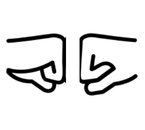
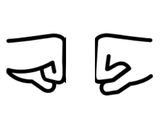
Social: 10-frame fistbump animation, 3 cycles smooth
- Replace 3-frame (300ms) overlay animation with 10-frame (110ms) cycling
  fistbump1→10 × 3 for a smooth continuous loop; clash on final frame only
- Update all static fistbump icon references to fistbump10.png (final frame)
- Add fistbump4-10.png to public assets

Changed region(s): [[0.5241, 0.2462, 0.9655, 0.7385], [0.0276, 0.2462, 0.469, 0.7385], [0.0276, 0.2769, 0.0552, 0.3385]]

diff --git a/gym-tracker/src/components/social/SocialPageClient.tsx b/gym-tracker/src/components/social/SocialPageClient.tsx
@@ -147,14 +147,14 @@ function FeedCard({
               }`}
               title={entry.myFistBump ? "Remove fist bump" : "Fist bump!"}
             >
-              <img src="/fistbump3.png" alt="" className="h-4 w-4 object-contain fb-icon" />
+              <img src="/fistbump10.png" alt="" className="h-4 w-4 object-contain fb-icon" />
               {bumpCount > 0 && <span>{bumpCount}</span>}
             </button>
           )}
           {/* Own entry: show bumper names */}
           {entry.isOwnWorkout && bumpCount > 0 && (
             <span className="flex items-center gap-1 text-xs text-zinc-500 dark:text-zinc-400 max-w-[160px]">
-              <img src="/fistbump3.png" alt="" className="h-3.5 w-3.5 object-contain flex-shrink-0 fb-icon" />
+              <img src="/fistbump10.png" alt="" className="h-3.5 w-3.5 object-contain flex-shrink-0 fb-icon" />
               <span className="truncate">
                 {(() => {
                   const names = entry.fistBumps.map((b) => b.username ?? b.name ?? "Someone");
@@ -395,7 +395,7 @@ export function SocialPageClient({ friendsWithStats, feed, pendingReceived, pend
   const [overlayBumpers, setOverlayBumpers] = useState<string[]>([]);
   const [overlayCount, setOverlayCount] = useState(0);
   const [showConfetti, setShowConfetti] = useState(false);
-  const [animFrame, setAnimFrame] = useState<1|2|3>(1);
+  const [animFrame, setAnimFrame] = useState<number>(1);
   const [showClash, setShowClash] = useState(false);
   const [newBumpSessionIds, setNewBumpSessionIds] = useState(() => new Set(newFistBumps.map((b) => b.sessionId)));
   const [newFeedIds, setNewFeedIds] = useState(() => new Set(newFeedSessionIds));
@@ -428,10 +428,11 @@ export function SocialPageClient({ friendsWithStats, feed, pendingReceived, pend
     }
   }, [view, tab]); // eslint-disable-line react-hooks/exhaustive-deps
 
-  // 3-frame fistbump animation — clash + confetti only on the final (3rd) frame 3
+  // 10-frame fistbump animation × 3 cycles — clash + confetti only on the final frame
   useEffect(() => {
     if (!showFistBumpOverlay) return;
-    const seq: Array<1|2|3> = [1, 2, 3, 1, 2, 3, 1, 2, 3];
+    const frames = [1,2,3,4,5,6,7,8,9,10];
+    const seq = [...frames, ...frames, ...frames]; // 30 steps
     let step = 0;
     const id = setInterval(() => {
       step++;
@@ -442,11 +443,10 @@ export function SocialPageClient({ friendsWithStats, feed, pendingReceived, pend
       }
       setAnimFrame(seq[step]);
       if (step === seq.length - 1) {
-        // only the very last frame 3
         setShowClash(true);
         setTimeout(() => setShowClash(false), 520);
       }
-    }, 300);
+    }, 110);
     return () => clearInterval(id);
   }, [showFistBumpOverlay]); // eslint-disable-line react-hooks/exhaustive-deps
 
@@ -736,7 +736,7 @@ export function SocialPageClient({ friendsWithStats, feed, pendingReceived, pend
               Feed
               {fistBumpBadge > 0 && (
                 <span className="absolute -top-2 -right-1 flex items-center gap-px text-[8px] font-bold leading-none">
-                  <img src="/fistbump3.png" alt="" className="h-5 w-5 object-contain fb-icon" />
+                  <img src="/fistbump10.png" alt="" className="h-5 w-5 object-contain fb-icon" />
                   <span className="text-amber-500">{fistBumpBadge > 9 ? "9+" : fistBumpBadge}</span>
                 </span>
               )}
@@ -777,7 +777,7 @@ export function SocialPageClient({ friendsWithStats, feed, pendingReceived, pend
           <div className="text-[10px] text-zinc-400 dark:text-zinc-500 mt-0.5">Friends</div>
         </div>
         <div className="rounded-2xl bg-white dark:bg-zinc-900 border border-zinc-100 dark:border-zinc-800 p-3 text-center">
-          <img src="/fistbump3.png" alt="" className="h-6 w-6 object-contain mx-auto mb-1 fb-icon" />
+          <img src="/fistbump10.png" alt="" className="h-6 w-6 object-contain mx-auto mb-1 fb-icon" />
           <div className="text-xl font-bold text-zinc-900 dark:text-white tabular-nums">{socialStats.totalFistBumpsReceived}</div>
           <div className="text-[10px] text-zinc-400 dark:text-zinc-500 mt-0.5">Fist bumps</div>
         </div>

diff --git a/gym-tracker/src/components/layout/Navbar.tsx b/gym-tracker/src/components/layout/Navbar.tsx
@@ -44,7 +44,7 @@ function NavBadges({ href, socialBadges }: { href: string; socialBadges?: Navbar
       )}
       {fistBumpBadge > 0 && (
         <span className="absolute -top-2 -right-3.5 flex items-center gap-px text-[8px] font-bold leading-none">
-          <img src="/fistbump3.png" alt="" className="h-4 w-4 object-contain fb-icon" />
+          <img src="/fistbump10.png" alt="" className="h-4 w-4 object-contain fb-icon" />
           <span className="text-amber-500 dark:text-amber-400">{fistBumpBadge > 9 ? "9+" : fistBumpBadge}</span>
         </span>
       )}
